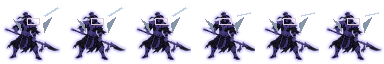
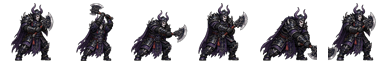
Redo mo jiang enemy sprites

diff --git a/tools/cut_task41_mo_jiang_sheet.py b/tools/cut_task41_mo_jiang_sheet.py
@@ -1,0 +1,135 @@
+#!/usr/bin/env python3
+from pathlib import Path
+from PIL import Image
+
+ROOT = Path(__file__).resolve().parents[1]
+SRC = ROOT / "assets/source/task41/mo_jiang_anim_sheet_v1.png"
+ATTACK_SRC = ROOT / "assets/source/task41/mo_jiang_attack_sheet_v1.png"
+OUT_DIR = ROOT / "assets/characters/enemies/mo_jiang"
+
+FRAME_BOXES = {
+    "idle": [
+        (156, 76, 488, 472),
+        (586, 76, 920, 472),
+        (1032, 72, 1366, 472),
+        (1452, 72, 1786, 472),
+    ],
+    "attack": [
+        (0, 260, 314, 705),
+        (330, 170, 675, 705),
+        (660, 292, 1080, 705),
+        (1038, 282, 1390, 705),
+        (1360, 260, 1715, 705),
+        (1708, 260, 2048, 705),
+    ],
+    "hurt": [
+        (316, 1054, 684, 1428),
+        (772, 1098, 1110, 1428),
+        (1192, 1170, 1632, 1444),
+    ],
+    "death": [
+        (16, 1558, 462, 1870),
+        (500, 1612, 990, 1884),
+        (990, 1684, 1538, 1888),
+        (1518, 1678, 2048, 1892),
+    ],
+}
+
+
+def white_to_alpha(im):
+    im = im.convert("RGBA")
+    px = im.load()
+    for y in range(im.height):
+        for x in range(im.width):
+            r, g, b, a = px[x, y]
+            dist = max(0, 255 - min(r, g, b))
+            if r > 248 and g > 248 and b > 248:
+                px[x, y] = (r, g, b, 0)
+            elif r > 242 and g > 242 and b > 242:
+                px[x, y] = (r, g, b, min(a, dist * 5))
+    return im
+
+
+def remove_small_fragments(im, min_area=20):
+    alpha = im.getchannel("A")
+    w, h = im.size
+    pix = alpha.load()
+    seen = set()
+    comps = []
+    for y in range(h):
+        for x in range(w):
+            if pix[x, y] <= 8 or (x, y) in seen:
+                continue
+            stack = [(x, y)]
+            seen.add((x, y))
+            pts = []
+            while stack:
+                px, py = stack.pop()
+                pts.append((px, py))
+                for nx in (px - 1, px, px + 1):
+                    for ny in (py - 1, py, py + 1):
+                        if nx < 0 or ny < 0 or nx >= w or ny >= h or (nx, ny) in seen:
+                            continue
+                        if pix[nx, ny] > 8:
+                            seen.add((nx, ny))
+                            stack.append((nx, ny))
+            comps.append(pts)
+    keep = set()
+    for pts in comps:
+        if len(pts) >= min_area:
+            keep.update(pts)
+    out = Image.new("RGBA", im.size, (0, 0, 0, 0))
+    src = im.load()
+    dst = out.load()
+    for x, y in keep:
+        dst[x, y] = src[x, y]
+    return out
+
+
+def strip_edge_alpha(im):
+    px = im.load()
+    w, h = im.size
+    for x in range(w):
+        px[x, 0] = px[x, 0][:3] + (0,)
+        px[x, h - 1] = px[x, h - 1][:3] + (0,)
+    for y in range(h):
+        px[0, y] = px[0, y][:3] + (0,)
+        px[w - 1, y] = px[w - 1, y][:3] + (0,)
+    return im
+
+
+def fit_frame(crop, size=64, pad=3, min_area=20):
+    crop = remove_small_fragments(white_to_alpha(crop), min_area=min_area)
+    bbox = crop.getchannel("A").getbbox()
+    out = Image.new("RGBA", (size, size), (0, 0, 0, 0))
+    if not bbox:
+        return out
+    spr = crop.crop(bbox)
+    scale = min((size - pad * 2) / spr.width, (size - pad * 2) / spr.height)
+    nw = max(1, int(spr.width * scale))
+    nh = max(1, int(spr.height * scale))
+    spr = spr.resize((nw, nh), Image.Resampling.LANCZOS)
+    out.alpha_composite(spr, ((size - nw) // 2, size - pad - nh))
+    return strip_edge_alpha(remove_small_fragments(out, min_area=min_area))
+
+
+def join(frames):
+    out = Image.new("RGBA", (64 * len(frames), 64), (0, 0, 0, 0))
+    for i, fr in enumerate(frames):
+        out.alpha_composite(fr, (i * 64, 0))
+    return out
+
+
+def main():
+    sheet = Image.open(SRC).convert("RGBA")
+    attack_sheet = Image.open(ATTACK_SRC).convert("RGBA")
+    OUT_DIR.mkdir(parents=True, exist_ok=True)
+    for anim, boxes in FRAME_BOXES.items():
+        src = attack_sheet if anim == "attack" else sheet
+        min_area = 100 if anim == "attack" else 20
+        frames = [fit_frame(src.crop(box), min_area=min_area) for box in boxes]
+        join(frames).save(OUT_DIR / f"{anim}.png")
+
+
+if __name__ == "__main__":
+    main()
